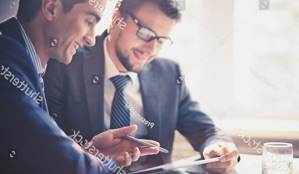
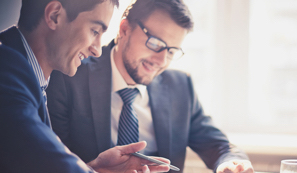
Updated images and added animation for background image

diff --git a/src/page/HomePage/HomePage.js b/src/page/HomePage/HomePage.js
@@ -6,17 +6,32 @@ import AboutUs from '../../component/AboutUs/AboutUs';
 import Business from '../../component/Business/Business';
 import FooterComponent from '../../component/FooterComponent/FooterComponent';
 import FloatButtons from '../../component/FloatButtons/FloatButtons';
+import AboutGleich from '../../component/AboutGleich/AboutGleich';
 
 export default {
 	name: 'HomePage',
 	components: {
 		MenuComponent,
 		HeroSlider,
+		AboutGleich,
 		AboutUs,
 		Business,
 		ContactUs,
 		News,
 		FooterComponent,
 		FloatButtons,
+	},
+	methods: {
+		handleScroll() {
+			const parallax = document.getElementById('parallax-bg');
+			let yPos = window.pageYOffset / 10;
+			yPos = -yPos;
+			// eslint-disable-next-line
+			const coords = '100% ' + yPos + 'px';
+			parallax.style.backgroundPosition = coords;
+		},
+	},
+	mounted() {
+		window.addEventListener('scroll', this.handleScroll);
 	},
 };

diff --git a/src/component/AboutGleich/AboutGleich.vue b/src/component/AboutGleich/AboutGleich.vue
@@ -1,0 +1,13 @@
+<style src="./AboutGleich.scss" module lang="scss"></style>
+<script src="./AboutGleich.js"></script>
+
+<template>
+	<div id="about-us">
+		<div class="container text-center summary-wrap">
+			<h2 class="heading-01">{{ $t('about_us.title') }}</h2>
+			<hr class="heading-01--underline"/>
+			<p>{{ $t('about_us.desc') }}</p>
+		</div>
+	</div>
+</template>
+

diff --git a/src/component/Business/Business.vue b/src/component/Business/Business.vue
@@ -3,8 +3,10 @@
 
 <template>
 	<div>
-		<div class="container text-center summary-wrap">
-			<p>{{ $t('business.desc') }}</p>
+		<div style="background: #fff;">
+			<div class="container text-center summary-wrap">
+				<p>{{ $t('business.desc') }}</p>
+			</div>
 		</div>
 		<div :class="$style.wrap">
 			<div class="container text-center summary-wrap" id="foundation">

diff --git a/src/component/AboutUs/AboutUs.vue b/src/component/AboutUs/AboutUs.vue
@@ -2,13 +2,6 @@
 <script src="./AboutUs.js"></script>
 
 <template>
-	<div id="about-us">
-		<div class="container text-center summary-wrap">
-			<h2 class="heading-01">{{ $t('about_us.title') }}</h2>
-			<hr class="heading-01--underline"/>
-			<p>{{ $t('about_us.desc') }}</p>
-		</div>
-		<AboutusTab />
-	</div>
+	<AboutusTab />
 </template>
 

diff --git a/src/page/HomePage/HomePage.vue b/src/page/HomePage/HomePage.vue
@@ -5,8 +5,11 @@
 	<div>
 		<MenuComponent componentId="MenuComponent" />
 		<HeroSlider />
-		<AboutUs />
-		<Business />
+		<AboutGleich />
+		<div id="parallax-bg" :class="$style.wrapper">
+			<AboutUs />
+			<Business />
+		</div>
 		<!--<News />-->
 		<ContactUs />
 		<FooterComponent />

diff --git a/src/component/Business/Business.scss b/src/component/Business/Business.scss
@@ -1,6 +1,6 @@
 :local {
 	.wrap {
-		background: url('asset/image/business-bg.jpg') no-repeat center center / cover;
+		//background: url('asset/image/business-bg.jpg') no-repeat center center / cover;
 		color: $colorLightGrey;
 		padding: 60px 0;
 	}

diff --git a/src/component/AboutUs/AboutusTab/AboutusTab.scss b/src/component/AboutUs/AboutusTab/AboutusTab.scss
@@ -1,6 +1,6 @@
 :local {
 	.wrap {
-		background: url('asset/image/aboutus-bg.jpg') no-repeat center center / cover;
+		//background: url('asset/image/aboutus-bg.jpg') no-repeat center center / cover;
 	}
 
 	.tab-nav {

diff --git a/src/page/HomePage/HomePage.scss b/src/page/HomePage/HomePage.scss
@@ -1,2 +1,7 @@
 :local {
+	.wrapper {
+		background-image: url('asset/image/parallax_bg.jpg');
+		background-size: auto 120%;
+		background-position: 100% 0;
+	}
 }

diff --git a/src/component/AboutGleich/index.js b/src/component/AboutGleich/index.js
@@ -1,0 +1,3 @@
+import AboutGleich from './AboutGleich';
+
+export default AboutGleich;

diff --git a/src/component/AboutGleich/AboutGleich.js b/src/component/AboutGleich/AboutGleich.js
@@ -1,0 +1,3 @@
+export default {
+	name: 'AboutGleich',
+};

diff --git a/src/component/AboutGleich/AboutGleich.scss b/src/component/AboutGleich/AboutGleich.scss
@@ -1,0 +1,2 @@
+:local {
+}
